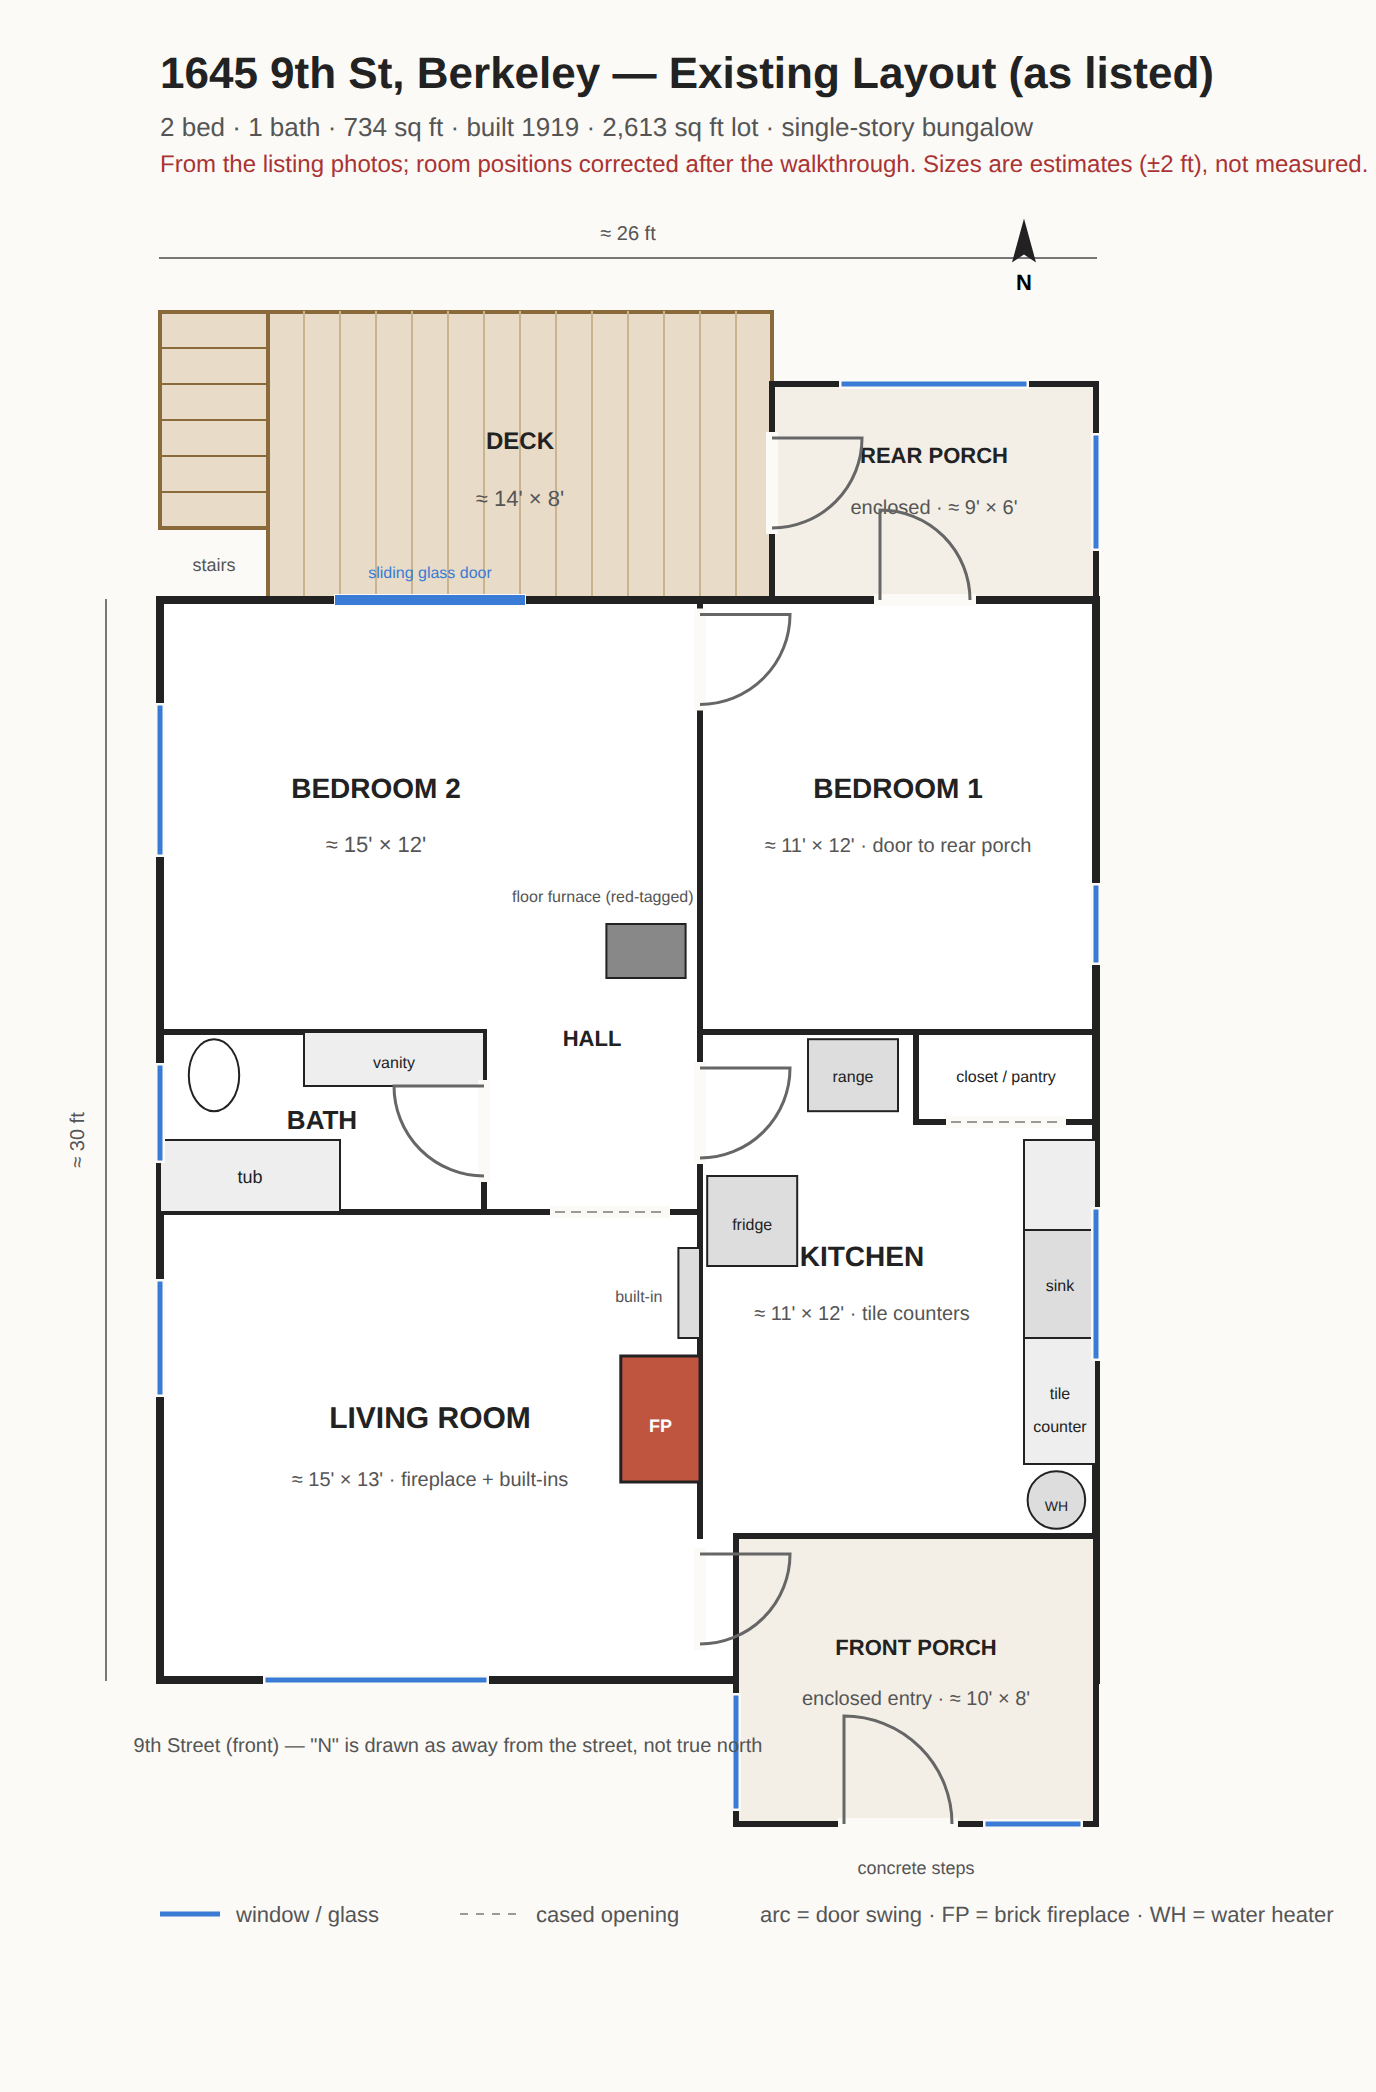
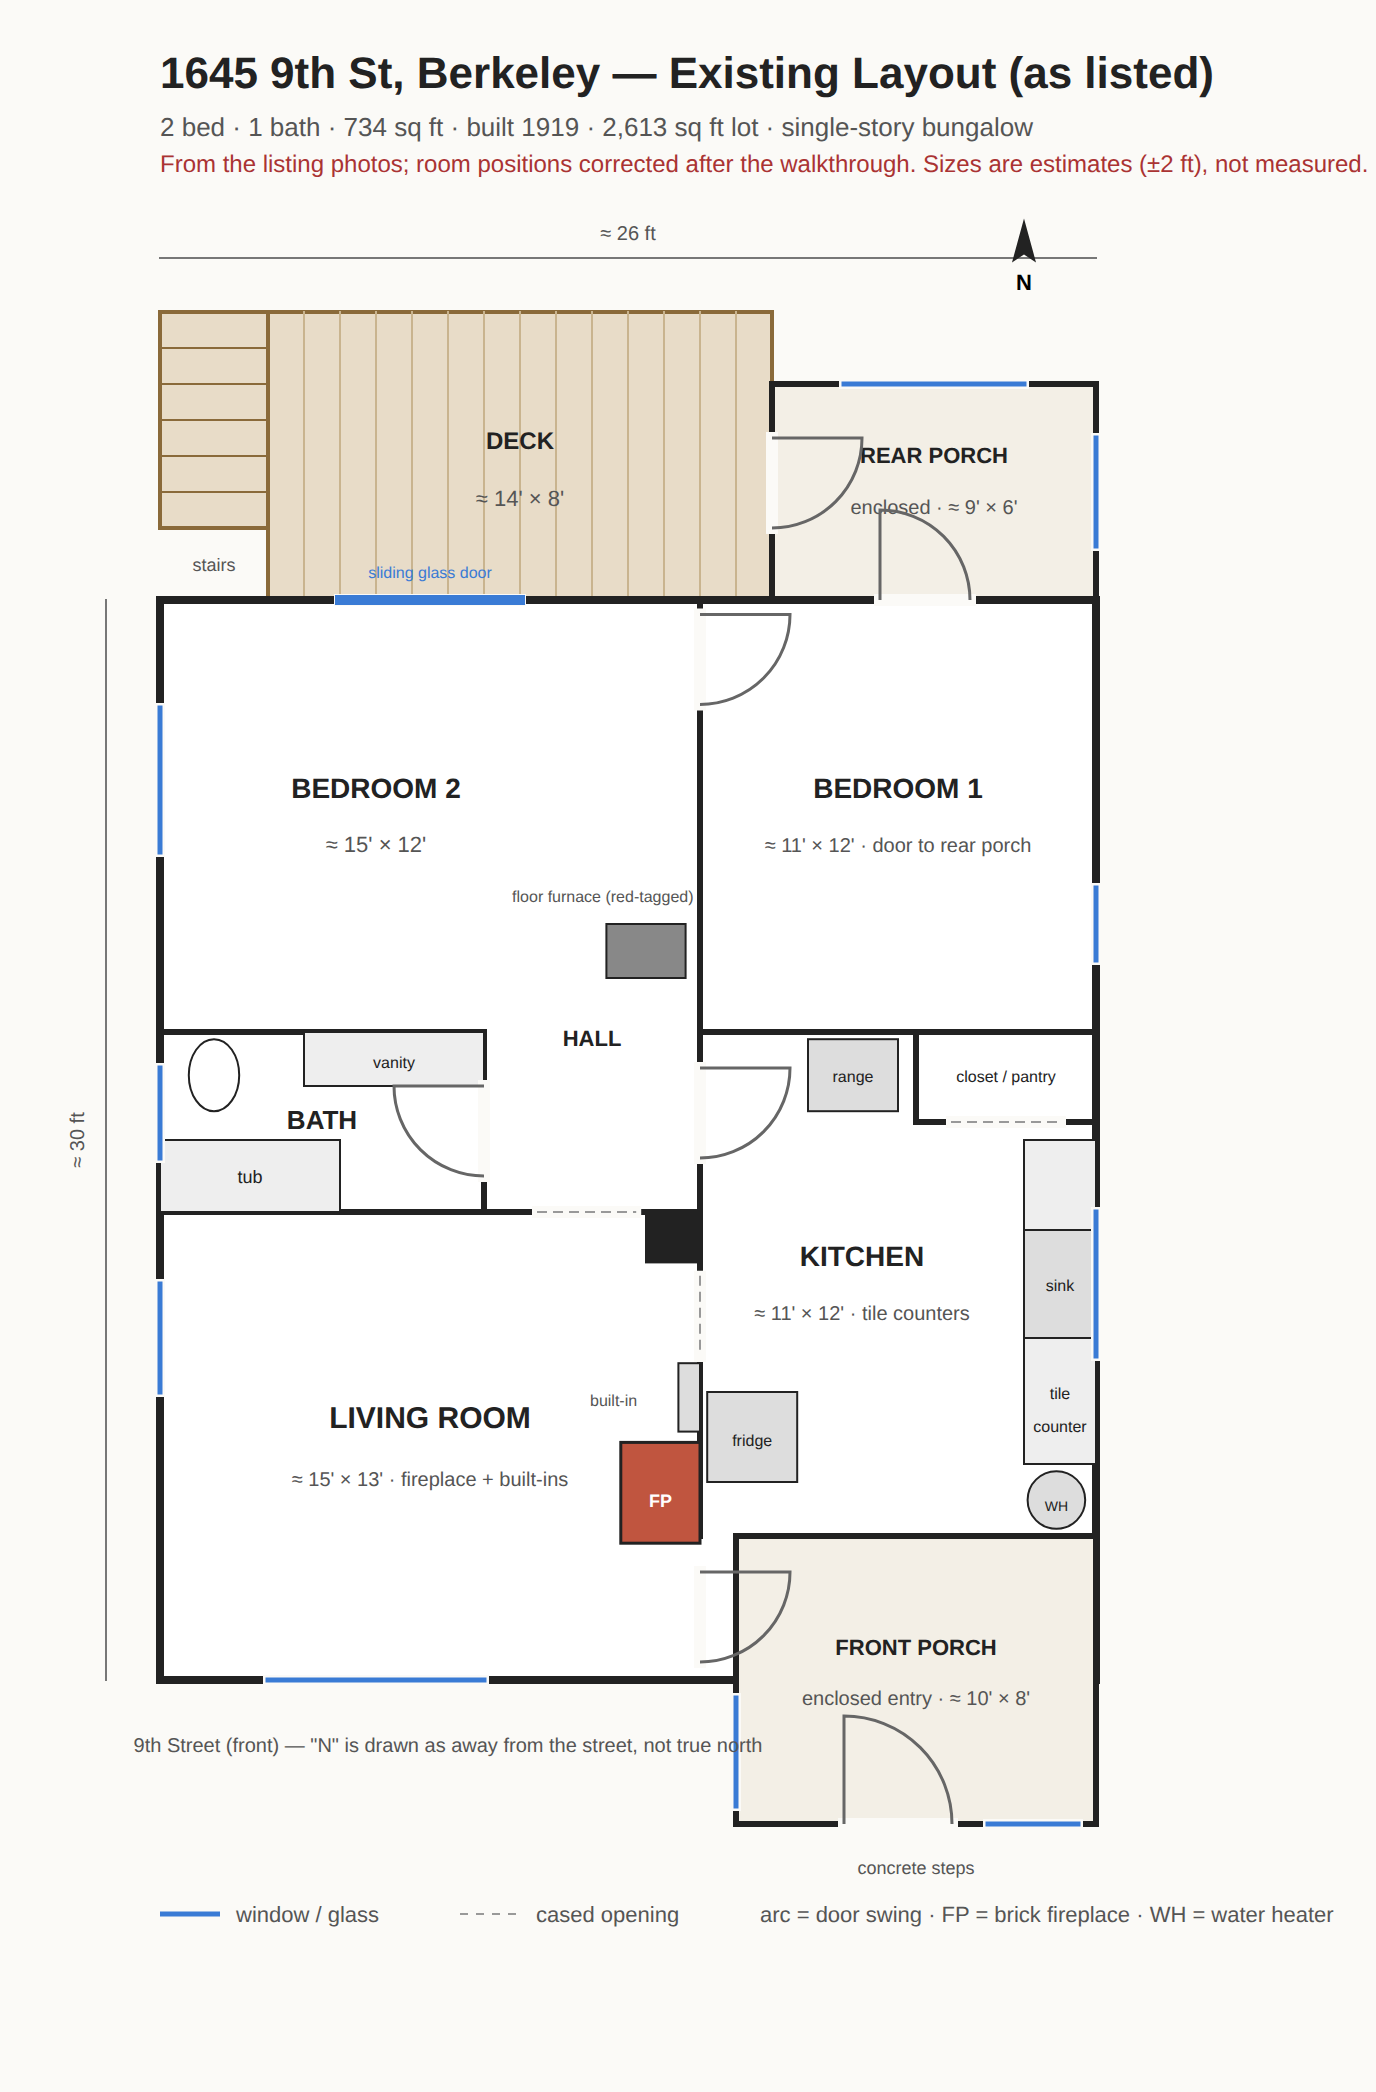
Living room: inset doorway into the front-right room, per photo 04
Along the living room's east wall from north to south: an inset cased
doorway straight into the front-right room (a wall section projects into
the living room at that corner), the built-in, the brick fireplace, then
the front-porch door. Fireplace and built-in shifted south to fit; the
existing kitchen's fridge moved behind the fireplace. Flagged the
bedroom-off-the-living-room question for the proposed plan.

Claude-Session: https://claude.ai/code/session_01QP4ZkLkW7cUrZ9x3HXMY7H

Changed region(s): [[0.4375, 0.5593, 0.5938, 0.7457], [0.5625, 0.7457, 0.5938, 0.7768], [0.5312, 0.7768, 0.5625, 0.8078]]

diff --git a/index.html b/index.html
@@ -45,6 +45,7 @@ table{border-collapse:collapse;font-size:14px}td,th{padding:4px 12px 4px 0;text-
 </ul>
 <strong>Open questions</strong>
 <ul>
+<li>The living room's inset doorway opens straight into the old kitchen, which becomes bedroom 1. Close it and use the hall door, or accept a bedroom off the living room?</li>
 <li>Room sizes and door placements are estimates from photos; no measured plan exists. Verify on the next visit.</li>
 <li>The termite report mentions a "rear half bathroom" vanity; the listing says one bath. Is there a second sink or half bath in the rear porch area?</li>
 </ul>

diff --git a/floor-plan/generate.py b/floor-plan/generate.py
@@ -71,8 +71,11 @@ def build(variant):
     line(15,12,15,26)
     line(21,12,21,14.5); line(21,14.5,26,14.5)
     # fireplace / built-in
-    rect(12.8,21,15,24.5,fill="#c0553f",stroke="#222",sw=1.5); label(13.9,23.1,"FP",9,True,"#fff")   # brick fireplace sits in the living room; the far wall is flush
-    rect(14.4,18,15,20.5,fill="#ddd",stroke="#222",sw=1); label(13.3,19.5,"built-in",8,False,"#555")
+    rect(12.8,23.4,15,26.2,fill="#c0553f",stroke="#222",sw=1.5); label(13.9,25.2,"FP",9,True,"#fff")   # brick fireplace sits in the living room; the far wall is flush
+    rect(14.4,21.2,15,23.1,fill="#ddd",stroke="#222",sw=1); label(12.6,22.4,"built-in",8,False,"#555")
+    # inset doorway, living room -> front-right room (photo 04): a wall section projects into the living room at the NE corner
+    rect(13.5,17,15,18.4,fill="#222",stroke="#222",sw=1)
+    opening(15,18.8,15,21)
     # bath
     rect(0,15,5,17,fill="#eee",stroke="#222",sw=1); label(2.5,16.2,"tub",9,False)
     rect(4,12,9,13.5,fill="#eee",stroke="#222",sw=1); label(6.5,13,"vanity",8,False)
@@ -93,7 +96,7 @@ def build(variant):
         rect(24,15,26,24,fill="#eee",stroke="#222",sw=1); label(25,22.2,"tile",8,False); label(25,23.1,"counter",8,False)
         rect(24,17.5,26,20.5,fill="#ddd",stroke="#222",sw=1); label(25,19.2,"sink",8,False)
         rect(18,12.2,20.5,14.2,fill="#ddd",stroke="#222",sw=1); label(19.25,13.4,"range",8,False)
-        rect(15.2,16,17.7,18.5,fill="#ddd",stroke="#222",sw=1); label(16.45,17.5,"fridge",8,False)
+        rect(15.2,22,17.7,24.5,fill="#ddd",stroke="#222",sw=1); label(16.45,23.5,"fridge",8,False)
         circle(24.9,25,0.8); label(24.9,25.3,"WH",7,False)
     else:
         # kitchen rear-left, eat-in, opens to deck; bedroom 2 rear-right
@@ -111,7 +114,7 @@ def build(variant):
         label(21,6,"BEDROOM 2",13); label(21,7.4,"≈ 11' × 12' · closet added",10,False,"#555")
         label(23.8,-0.7,"WH moves here",7,False,"#a33")
     # shared: bedroom 1, living room, doors
-    door(9,13.5,2.5,'w'); door(15,13,2.5,'e'); opening(22,14.5,25,14.5); opening(11,17,14,17); door(15,26.5,2.5,'e')
+    door(9,13.5,2.5,'w'); door(15,13,2.5,'e'); opening(22,14.5,25,14.5); opening(10.5,17,13.2,17); door(15,27,2.5,'e')
     window(0,3,0,7); window(0,13,0,15.5); window(0,19,0,22); window(3,30,9,30); window(26,17,26,21); window(26,8,26,10)
     if proposed:
         label(19.5,18.5,"BEDROOM 1",14); label(19.5,20,"≈ 11' × 12' · former kitchen",10,False,"#555"); label(23.5,13.4,"closet",8,False)

diff --git a/CLAUDE.md b/CLAUDE.md
@@ -41,7 +41,7 @@ Rough photo index:
 - `floor-plan/generate.py` — generates both SVGs; edit this, run it, then re-export PNGs with headless Chrome (see below)
 - `index.html` — shareable page with an existing/proposed toggle and both photo galleries, published at https://keithmancuso.github.io/1645-9th-st/
 
-The existing plan was reconstructed from the listing photos only, not measured. Treat room sizes as ±2 ft. Layout as drawn: living room front-left with the brick fireplace against the east wall (it does not project into the room behind; that wall is flush); enclosed front porch front-right; **kitchen behind the porch (front-right, ≈11×12)**; small central hall; bathroom on the left; **bedroom 1 rear-right (≈11×12) with a door to the rear porch, reached through a door in the rear corner of bedroom 2** (photo 18); bedroom 2 rear-left with a slider to the deck and the floor furnace grate near its east wall; unfinished enclosed rear porch off bedroom 1. Bathroom position and door placements are the least certain parts.
+The existing plan was reconstructed from the listing photos only, not measured. Treat room sizes as ±2 ft. Layout as drawn: living room front-left; along its east wall from north to south: an inset cased doorway straight into the front-right room (photo 04, the wall projects into the living room at that corner), the built-in, the brick fireplace (flush on the far side), and the door to the front porch; enclosed front porch front-right; **kitchen behind the porch (front-right, ≈11×12)**; small central hall; bathroom on the left; **bedroom 1 rear-right (≈11×12) with a door to the rear porch, reached through a door in the rear corner of bedroom 2** (photo 18); bedroom 2 rear-left with a slider to the deck and the floor furnace grate near its east wall; unfinished enclosed rear porch off bedroom 1. Bathroom position and door placements are the least certain parts.
 
 Correction, Sept 9: the first draft had the kitchen and bedroom 1 swapped (kitchen rear-right, bedroom 1 front-right). Keith confirmed after the walkthrough that the front-right room is the kitchen today. Room sizes still need checking against a real plan; none was found in the listing or the disclosure package. The first draft also drew a 2 ft double wall between the two rear rooms; there was no evidence for it, so it is now one wall with a single door in the rear corner, where photo 18 shows it. The same photo shows no closet in that corner, so the bedroom 2 closet from the first draft is gone.
 
@@ -51,7 +51,7 @@ Correction, Sept 9: the first draft had the kitchen and bedroom 1 swapped (kitch
 2. **Old kitchen (front-right, ≈11×12) becomes bedroom 1.** Its plumbing gets abandoned.
 3. **Rear-right bedroom stays a bedroom** and becomes bedroom 2 (≈11×12) with a closet added on the hall wall. It keeps the existing corner door, which now opens from the kitchen; a door from the hall would need the hall's east wall opened. Range goes on the west wall with the sink; the corner door rules out a run on the back wall.
 4. **Rear porch becomes laundry / mudroom**, still opening onto the deck; water heater relocates there. Open question: entered from bedroom 2, the deck only, or both.
-5. Living room, bath, hall, front porch unchanged in this pass.
+5. Living room, bath, hall, front porch unchanged in this pass. Open question: the living room's inset doorway opens straight into the old kitchen, which becomes bedroom 1. Either close it and use the hall door, or accept a bedroom off the living room.
 
 Open questions: verify room sizes and door placements on the next visit (no measured plan exists); confirm whether the termite report's "rear half bathroom" means there is a second sink/half bath in the rear porch area, which now sits off bedroom 1. The floor furnace is red-tagged by PG&E (Aug 2026) and comes out; heating will be mini-splits (see `BUDGET.md`). The proposed sheet omits the furnace for that reason.
 
